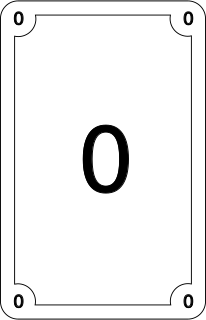
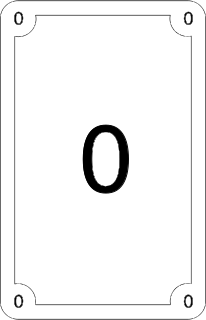
Changement des assets de cartes

diff --git a/class_import.py b/class_import.py
@@ -11,9 +11,9 @@ pygame.init()
 
 class import_image():
 	# Sprit des cartes
-	folder = "picture/cartes/pngTempo/"
-	labelCartes, cartes = ['0', '1', '2', '3', '5', '8', '13', '20', '40', '100', 'X', 'Cafe'], []
-	for label in labelCartes : cartes.append(pygame.image.load(f"{folder}carte{label}.png"))
+	folder = "picture/cartes/PNG/"
+	labelCartes, cartes = ['0', '1', '2', '3', '5', '8', '13', '20', '40', '100', 'cafe', 'intero'], []
+	for label in labelCartes : cartes.append(pygame.image.load(f"{folder}cartes_{label}.png"))
 
 	# Sprit des bouton
 	# - Prefixe "nonon" -> Bouton éteint

diff --git a/premainEvent.py b/premainEvent.py
@@ -81,7 +81,7 @@ class PremainEvent(Event):
 		"""
 		Methode qui permet d'observer si la souris sélectionne un choix
 		"""
-		if   self.inBox(x, y, self.imp.data.nbPlayer['box'])   : self.select['nbPlayer'] = 1 
+		if   self.inBox(x, y, self.imp.data.nbPlayer['box'])   : self.select['nbPlayer'] = 1
 		elif self.inBox(x, y, self.imp.data.setName['box'])    : self.select['setName'] = 1
 		elif self.inBox(x, y, self.imp.data.setBacklog['box']) : self.select['setBacklog'] = 1
 		elif self.inBox(x, y, self.imp.data.setMode['box'])    : self.select['setMode'] = 1

diff --git a/mainEvent.py b/mainEvent.py
@@ -109,8 +109,14 @@ class MainEvent(Event):
 			select = self.imp.image.labelCartes[np.where(self.activCartes == 1)[0][0]]
 
 			print(f"TOUR {self.loop} : Player {self.param['list_name'][self.currentPlayer]} vote {select} pour la task {self.listTask[self.currentTask]}")
-
-			self.playerVote.append(int(select))
+			try:
+				self.playerVote.append(int(select))
+			except ValueError:
+				if select == 'X':
+					print('X')
+				elif select == 'Cafe':
+					print('Cafe')
+				
 			self.currentPlayer += 1
 
 			if self.currentPlayer == self.param['nb_name']:

diff --git a/gameClass.py b/gameClass.py
@@ -4,7 +4,7 @@ import import_json
 
 class GameClass():
 	"""
-	Class GameClass : Elle permet de gérer plusieurs paramètre de l'appli, notament la gestion de la fenètre
+	Class GameClass : Permet de gérer plusieurs paramètre de l'appli, notament la gestion de la fenètre
 	"""
 
 	def __init__(self, displayXY, displayCaption, beginBy='menu'):
